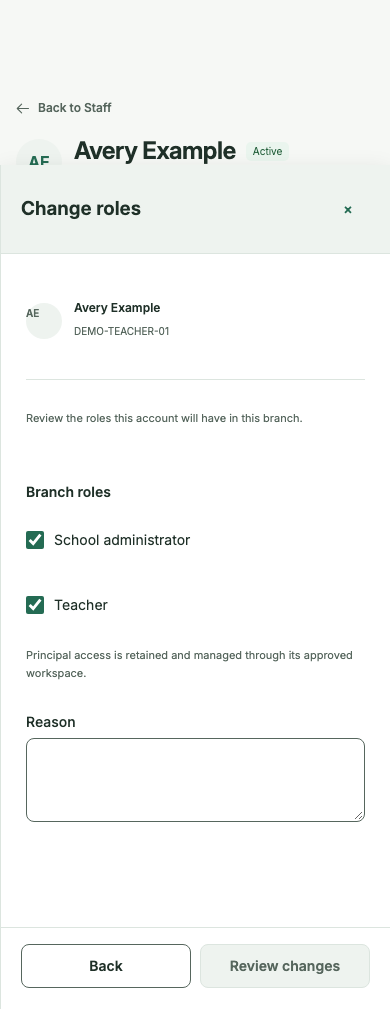
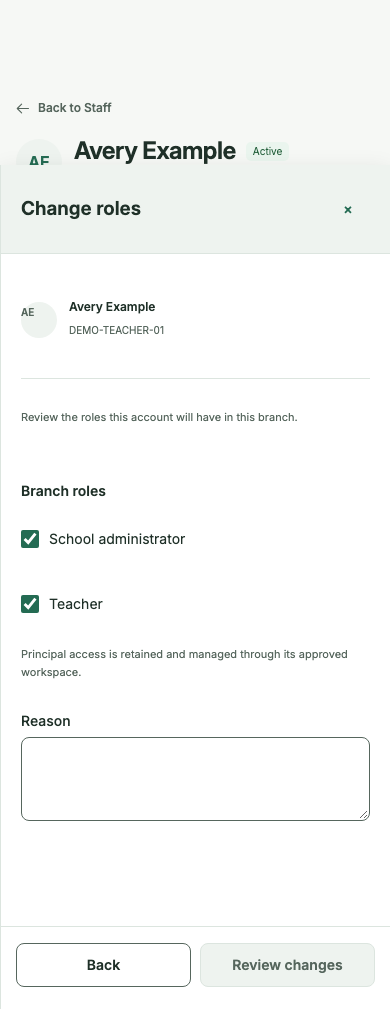
Align Staff access drawer composition

diff --git a/app/globals.css b/app/globals.css
@@ -1704,7 +1704,7 @@ a:focus-visible,button:focus-visible,input:focus-visible,select:focus-visible,te
 .staff-filter-drawer{display:block;min-height:0;padding:0}.staff-drawer-body{padding:26px 28px}.staff-drawer-body fieldset{display:grid;gap:0;margin:0 0 24px;padding:0;border:0}.staff-drawer-body legend{margin:0 0 12px;padding:0 2px;font-size:12px;font-weight:650;line-height:18px}.staff-drawer-body .check-control{min-height:38px;padding:8px 0;font-size:12px;line-height:18px}.staff-drawer-body .radio-group .check-control{min-height:35px}.staff-drawer-body .check-control input{width:16px;height:16px;margin:3px 3px 3px 4px}.staff-drawer-body .radio-group .check-control input{margin:3px 3px 0 5px}.staff-drawer-rule{height:1px;margin:22px 0;background:var(--vs-border)}.staff-filter-drawer>.drawer-actions{justify-content:flex-end;margin:0;padding:18px 28px;border-top:1px solid var(--vs-border);background:var(--vs-surface-subtle)}.staff-filter-drawer>.drawer-actions .btn{width:auto;min-height:36px;padding:7px 13px;border-radius:6px;font-size:13px;font-weight:550;line-height:19.5px}.staff-filter-drawer>.drawer-actions .btn-secondary{border-color:var(--vs-border)}
 .staff-reference-drawer.dialog.drawer{width:min(470px,100vw);max-width:none;border-radius:0}.staff-reference-drawer .drawer-header{min-height:94px;padding:27px 28px 22px;background:var(--vs-surface-subtle)}.staff-reference-drawer .drawer-header h2{font-size:19px;font-weight:650;line-height:28px}.staff-reference-drawer .drawer-close{width:44px;height:44px;min-height:44px;padding:10px;border:0;border-radius:0;background:transparent;flex:0 0 44px}
 .staff-access-drawer .drawer-body,.staff-portal-drawer .drawer-body{overflow-y:auto;padding:25px}.staff-access-drawer form{display:grid;gap:18px}.staff-access-drawer .form-actions{margin:auto -25px -25px;padding:18px 24px;background:var(--vs-surface-subtle);border-top:1px solid var(--vs-border)}
-.staff-profile-access-summary{display:block;padding:0}.staff-profile-access-summary>.staff-access-person{padding-bottom:20px;border-bottom:1px solid var(--vs-border)}.staff-profile-access-summary>.small.muted{margin:20px 0 4px}.staff-profile-access-summary>p:not(.small){margin:0 0 18px}.staff-access-roles{margin:0 0 18px}.staff-access-roles p{margin:4px 0 0}.staff-profile-access-summary>.staff-invitation-management{margin:0 -25px;border-top:1px solid var(--vs-border)}.staff-profile-access-summary>.staff-invitation-management>.alert{margin:18px 25px}.staff-profile-access-summary>.staff-invitation-management>.staff-invitation-state{padding:18px 25px;border-bottom:1px solid var(--vs-border)}.staff-profile-access-summary>.staff-access-actions{margin-inline:-25px;padding-inline:25px}.staff-profile-access-actions>button{display:grid;grid-template-columns:18px minmax(0,1fr) auto}.staff-profile-access-actions>button>svg{width:16px;height:16px;fill:none;stroke:currentColor;stroke-width:1.6;stroke-linecap:round;stroke-linejoin:round}.staff-profile-access-summary>.drawer-actions{margin:0 -25px -25px}.staff-profile-access-form{display:grid;gap:18px;min-height:calc(100dvh - 144px)}.staff-profile-access-form fieldset{display:grid;gap:10px;margin:0;padding:0;border:0}.staff-profile-access-form legend{margin-bottom:10px;font-weight:600}.staff-profile-access-form>.drawer-actions{margin:auto -25px -25px}.staff-access-consequence{margin:0;color:var(--vs-text-muted);font-size:12px;line-height:19px}.staff-profile-access-review{display:flex;min-height:calc(100dvh - 144px);flex-direction:column}.staff-access-review-facts{display:grid;gap:18px;margin:0;padding:20px 0}.staff-access-review-facts dt{margin-bottom:4px;color:var(--vs-text-muted);font-size:11px}.staff-access-review-facts dd{margin:0;font-size:13px;font-weight:600}.staff-profile-access-review>.drawer-actions{margin:auto -25px -25px}
+.staff-profile-access-summary{display:block;padding:0}.staff-profile-access-summary>.staff-access-person{padding-bottom:20px;border-bottom:1px solid var(--vs-border)}.staff-profile-access-summary>.small.muted{margin:20px 0 4px}.staff-profile-access-summary>p:not(.small){margin:0 0 18px}.staff-access-roles{margin:0 0 18px}.staff-access-roles p{margin:4px 0 0}.staff-profile-access-summary>.staff-invitation-management{margin:0}.staff-profile-access-summary>.staff-invitation-management>.alert{margin:18px 0}.staff-profile-invitation-state,.staff-profile-access-section{margin-top:24px;padding-top:22px;border-top:1px solid var(--vs-border)}.staff-profile-invitation-heading{display:flex;align-items:center;justify-content:space-between;gap:12px}.staff-profile-invitation-heading h3,.staff-profile-access-section h3{margin:0;font-size:13px}.staff-profile-invitation-state>p{margin:10px 0 0}.staff-profile-invitation-state>.btn{margin-top:16px}.staff-profile-access-actions{margin-top:10px;border-top:0}.staff-access-actions.staff-profile-access-actions>button{display:grid;grid-template-columns:18px minmax(0,1fr) auto;min-height:44px;padding:10px 0}.staff-profile-access-actions>button>svg{width:16px;height:16px;fill:none;stroke:currentColor;stroke-width:1.6;stroke-linecap:round;stroke-linejoin:round}.staff-access-actions.staff-profile-access-actions>button strong{font-weight:400}.staff-access-actions.staff-profile-access-actions .dangerlink{color:var(--vs-danger)}.staff-profile-access-footer{justify-content:flex-end;margin:24px -25px -25px;padding:18px 28px max(18px,env(safe-area-inset-bottom));background:var(--vs-surface-subtle)}.staff-profile-access-footer .btn{width:auto;min-height:36px;padding:7px 13px;flex:0 0 auto}.staff-profile-access-form{display:grid;gap:18px;min-height:calc(100dvh - 144px)}.staff-profile-access-form fieldset{display:grid;gap:10px;margin:0;padding:0;border:0}.staff-profile-access-form legend{margin-bottom:10px;font-weight:600}.staff-profile-access-form>.drawer-actions{margin:auto -25px -25px}.staff-access-consequence{margin:0;color:var(--vs-text-muted);font-size:12px;line-height:19px}.staff-profile-access-review{display:flex;min-height:calc(100dvh - 144px);flex-direction:column}.staff-access-review-facts{display:grid;gap:18px;margin:0;padding:20px 0}.staff-access-review-facts dt{margin-bottom:4px;color:var(--vs-text-muted);font-size:11px}.staff-access-review-facts dd{margin:0;font-size:13px;font-weight:600}.staff-profile-access-review>.drawer-actions{margin:auto -25px -25px}
 .quiet-status{display:inline-flex;align-items:center;gap:6px;color:var(--vs-text-muted);font-size:11px;line-height:17px}.quiet-status::before{width:5px;height:5px;flex:0 0 5px;border-radius:50%;background:#85938b;content:""}.quiet-status.good{color:#28634c}.quiet-status.good::before{background:#478065}.quiet-status.warn{color:#8a6126}.quiet-status.warn::before{background:#af843f}.quiet-status.none::before{background:#b6c0b8}
 .staff-profile-page{width:min(100%,884px);gap:0;font-size:14px;line-height:21px}
 .staff-profile-back{display:inline-flex;align-items:center;gap:7px;min-height:30px;margin:0 0 12px;color:var(--vs-text-muted);font-size:12px;font-weight:550;line-height:18px;text-decoration:none}.staff-profile-back svg{width:15px;height:15px;fill:none;stroke:currentColor;stroke-width:1.7;stroke-linecap:round;stroke-linejoin:round}
@@ -1741,6 +1741,7 @@ a:focus-visible,button:focus-visible,input:focus-visible,select:focus-visible,te
 @media(min-width:1001px){.staff-profile-page{margin-left:77px;margin-right:auto}}
 @media(max-width:700px){
  .staff-reference-drawer.dialog.drawer{inset:0;width:100vw;max-width:none}.staff-reference-drawer .drawer-header{min-height:89px;padding:22px 20px}
+ .staff-portal-drawer .drawer-body{padding:24px 20px}.staff-profile-access-footer{margin:24px -20px -20px;padding:16px 20px max(16px,env(safe-area-inset-bottom))}.staff-profile-access-footer .btn{width:auto;min-height:44px;padding:11px 13px;flex:0 0 auto}
  .staff-profiles-page>.page-heading,.staff-access-page>.page-heading{height:32px;min-height:32px;margin-bottom:10px}
  .staff-profiles-page>.page-heading h1,.staff-access-page>.page-heading h1{font-size:25px;line-height:32px}
  .staff-profiles-page>.admin-local-navigation-row,.staff-access-page>.admin-local-navigation-row{align-items:stretch;flex-direction:column;min-height:111px;gap:10px}

diff --git a/components/staff-invitation-management.tsx b/components/staff-invitation-management.tsx
@@ -14,17 +14,19 @@ async function payload<T>(response:Response):Promise<T>{const value=await respon
 export function StaffInvitationManagement({employeeId,initial,compact=false}:{employeeId:string;initial:StaffProfileAccess;compact?:boolean}){
  const [access,setAccess]=useState(initial),[open,setOpen]=useState(false),[reason,setReason]=useState(''),[busy,setBusy]=useState(false),[attempt,setAttempt]=useState<Attempt|null>(null),[unknown,setUnknown]=useState(false),[savedRefresh,setSavedRefresh]=useState(false),[recoveryLock,setRecoveryLock]=useState(false),[confirmed,setConfirmed]=useState<Result|null>(null),[message,setMessage]=useState(''),[error,setError]=useState('');
  const invitation=access.invitation,canResend=!recoveryLock&&!unknown&&(invitation?.state==='FAILED'||invitation?.state==='EXPIRED');
+ const displayedState=confirmed?label[confirmed.deliveryStatus]:invitation?label[invitation.state]:'No invitation';
+ const historical=invitation?.state==='CONSUMED'||invitation?.state==='REVOKED';
  async function refresh(){setBusy(true);setError('');try{setAccess(await payload<StaffProfileAccess>(await fetch(`/api/v1/employees/${employeeId}/invitation`,{cache:'no-store'})));setSavedRefresh(false);setRecoveryLock(false);setConfirmed(null);setMessage('Invitation status refreshed.');}catch(cause){setError(cause instanceof Error?cause.message:'Current invitation status is unavailable.');}finally{setBusy(false);}}
  async function submit(existing?:Attempt){const next=existing??{key:crypto.randomUUID(),invitationId:invitation!.id,reason:reason.trim()};setAttempt(next);setBusy(true);setUnknown(false);setSavedRefresh(false);setMessage('');setError('');try{
    const result=await payload<Result>(await fetch(`/api/v1/employees/${employeeId}/invitation`,{method:'POST',headers:{'content-type':'application/json','idempotency-key':next.key},body:JSON.stringify({...next,key:next.key})}));setAttempt(null);setUnknown(false);setRecoveryLock(true);setConfirmed(result);setMessage(result.deliveryStatus==='SENT'?'Replacement invitation sent.':result.deliveryStatus==='PENDING_DELIVERY'?'Replacement invitation is preparing for delivery.':'Replacement saved; delivery failed.');
    try{setAccess(await payload<StaffProfileAccess>(await fetch(`/api/v1/employees/${employeeId}/invitation`,{cache:'no-store'})));setRecoveryLock(false);setConfirmed(null);setOpen(false);setReason('');}catch{setSavedRefresh(true);setOpen(false);}
   }catch(cause){setUnknown(true);setError(cause instanceof Error?cause.message:'The invitation outcome is unknown.');}finally{setBusy(false);}}
  function close(){if(unknown){setError('Check the pending invitation before closing.');return;}setOpen(false);setError('');}
- return <div className="staff-invitation-management">
+ return <div className={`staff-invitation-management${compact?' staff-profile-invitation':''}`}>
   {message&&<Alert tone="success" title="Invitation updated" onDismiss={savedRefresh?undefined:()=>setMessage('')}>{message}</Alert>}
   {savedRefresh&&<Alert tone="warning" title="Invitation saved; current status unavailable">The replacement was confirmed. Refreshing checks the current state and will not send another invitation.<span className="alert-actions"><Button size="small" variant="secondary" loading={busy} onClick={()=>void refresh()}>Refresh saved view</Button></span></Alert>}
   {!compact&&<div className="staff-access-summary"><strong>{access.state==='NO_ACCOUNT'?'No account':access.email??'Linked account'}</strong><p className="muted small">Contact email and sign-in access are managed separately.</p>{access.roles.length>0&&<p className="small">{access.roles.map(role=>roleLabel[role]).join(' · ')}</p>}</div>}
-  {invitation&&<div className="staff-invitation-state"><div><span className="small muted">Invitation</span><p><Badge tone={tone(invitation.state)}>{confirmed?label[confirmed.deliveryStatus]:label[invitation.state]}</Badge></p><p className="small muted">Expires {new Date(invitation.expiresAt).toLocaleString()}</p>{invitation.deliveryFailureReason&&<p className="small">{invitation.deliveryFailureReason}</p>}</div>{canResend&&<Button size="small" variant="secondary" onClick={()=>{setReason('');setError('');setAttempt(null);setOpen(true);}}>Review resend</Button>}</div>}
+  {compact?<section className="staff-profile-invitation-state"><div className="staff-profile-invitation-heading"><h3>Invitation</h3>{invitation&&<span className={`quiet-status ${invitation.state==='SENT'||invitation.state==='CONSUMED'?'good':invitation.state==='FAILED'||invitation.state==='EXPIRED'?'warn':'none'}`}>{displayedState}</span>}</div><p className="small muted">{invitation?(historical?'Historical invitation record.':`Expires ${new Date(invitation.expiresAt).toLocaleString()}`):'No invitation record.'}</p>{invitation?.deliveryFailureReason&&<p className="small">{invitation.deliveryFailureReason}</p>}{canResend&&<Button size="small" variant="secondary" onClick={()=>{setReason('');setError('');setAttempt(null);setOpen(true);}}>Review resend</Button>}</section>:invitation&&<div className="staff-invitation-state"><div><span className="small muted">Invitation</span><p><Badge tone={tone(invitation.state)}>{displayedState}</Badge></p><p className="small muted">Expires {new Date(invitation.expiresAt).toLocaleString()}</p>{invitation.deliveryFailureReason&&<p className="small">{invitation.deliveryFailureReason}</p>}</div>{canResend&&<Button size="small" variant="secondary" onClick={()=>{setReason('');setError('');setAttempt(null);setOpen(true);}}>Review resend</Button>}</div>}
   <Dialog title="Resend staff invitation" description="Review the current failed or expired invitation before creating a replacement." open={open} onClose={close}>
    {error&&<Alert tone="danger" title={unknown?'Outcome not confirmed':'Invitation not resent'}>{error}{unknown&&attempt&&<span className="alert-actions"><Button size="small" variant="secondary" loading={busy} onClick={()=>void submit(attempt)}>Retry unchanged resend</Button></span>}</Alert>}
    <dl className="workspace-choice-review"><div><dt>Staff account</dt><dd>{access.email}</dd></div><div><dt>Current state</dt><dd>{invitation?label[invitation.state]:'No invitation'}</dd></div></dl>

diff --git a/components/staff-portal-management.tsx b/components/staff-portal-management.tsx
@@ -33,9 +33,9 @@ export function StaffPortalManagement({employeeId,employeeName,staffNumber,schoo
      <dl className="staff-access-facts"><div><dt>Account</dt><dd><span className={`quiet-status ${current.state==='ACTIVE'?'good':current.state==='PENDING'?'warn':'none'}`}>{current.state==='PENDING'?'Pending activation':current.state==='REVOKED'?'Revoked':'Active'}</span></dd></div><div><dt>Branch access</dt><dd><span className={`quiet-status ${current.state==='ACTIVE'?'good':current.state==='PENDING'||current.state==='SUSPENDED'?'warn':'none'}`}>{branchState}</span></dd></div></dl>
      {current.roles.length>0&&<div className="staff-access-roles"><span className="small muted">Branch roles</span><p>{current.roles.map(role=>roleLabel[role]).join(' · ')}</p></div>}
      <StaffInvitationManagement employeeId={employeeId} initial={current} compact/>
-     {current.membershipId&&current.state!=='REVOKED'&&<div className="staff-access-actions staff-profile-access-actions"><button disabled={disabled} onClick={()=>begin('SET_ROLES')}><svg aria-hidden="true" viewBox="0 0 24 24"><path d="m4 16 10.5-10.5 4 4L8 20H4v-4Z"/></svg><span><strong>Change roles</strong><small>Choose the roles used in this branch</small></span><span aria-hidden="true">→</span></button>{current.state==='SUSPENDED'?<button disabled={disabled} onClick={()=>begin('REINSTATE')}><svg aria-hidden="true" viewBox="0 0 24 24"><circle cx="12" cy="12" r="8"/><path d="M12 8v4l3 2"/></svg><span><strong>Reinstate access</strong><small>Restore this branch membership</small></span><span aria-hidden="true">→</span></button>:<button disabled={disabled} onClick={()=>begin('SUSPEND')}><svg aria-hidden="true" viewBox="0 0 24 24"><circle cx="12" cy="12" r="8"/><path d="M12 8v4l3 2"/></svg><span><strong>Suspend access</strong><small>Temporarily stop access to this branch</small></span><span aria-hidden="true">→</span></button>}<button className="dangerlink" disabled={disabled} onClick={()=>begin('REVOKE')}><svg aria-hidden="true" viewBox="0 0 24 24"><path d="m7 7 10 10M17 7 7 17"/></svg><span><strong>Revoke access</strong><small>Remove this branch membership</small></span><span aria-hidden="true">→</span></button></div>}
+     {current.membershipId&&current.state!=='REVOKED'&&<section className="staff-profile-access-section"><h3>Manage branch access</h3><div className="staff-access-actions staff-profile-access-actions"><button disabled={disabled} onClick={()=>begin('SET_ROLES')}><svg aria-hidden="true" viewBox="0 0 24 24"><path d="m4 16 10.5-10.5 4 4L8 20H4v-4Z"/></svg><span><strong>Change roles</strong></span><span aria-hidden="true">→</span></button>{current.state==='SUSPENDED'?<button disabled={disabled} onClick={()=>begin('REINSTATE')}><svg aria-hidden="true" viewBox="0 0 24 24"><circle cx="12" cy="12" r="8"/><path d="M12 8v4l3 2"/></svg><span><strong>Reinstate access</strong></span><span aria-hidden="true">→</span></button>:<button disabled={disabled} onClick={()=>begin('SUSPEND')}><svg aria-hidden="true" viewBox="0 0 24 24"><circle cx="12" cy="12" r="8"/><path d="M12 8v4l3 2"/></svg><span><strong>Suspend access</strong></span><span aria-hidden="true">→</span></button>}<button className="dangerlink" disabled={disabled} onClick={()=>begin('REVOKE')}><svg aria-hidden="true" viewBox="0 0 24 24"><path d="m7 7 10 10M17 7 7 17"/></svg><span><strong>Revoke access</strong></span><span aria-hidden="true">→</span></button></div></section>}
     </>}
-    <div className="drawer-actions"><Button variant="secondary" onClick={close}>Close</Button></div>
+    <div className="drawer-actions staff-profile-access-footer"><Button variant="secondary" onClick={close}>Close</Button></div>
    </div>:step==='change'?<form className="staff-profile-access-form" onSubmit={event=>{event.preventDefault();if(action==='SET_ROLES'){setStep('review');return;}void save();}}>
     {command.notice}
     <div className="staff-drawer-person"><Avatar name={employeeName}/><div><strong>{employeeName}</strong><span>{staffNumber}</span></div></div>

diff --git a/docs/evidence/staff-pinpoint-followup-2026-10-23/README.md b/docs/evidence/staff-pinpoint-followup-2026-10-23/README.md
@@ -4,8 +4,8 @@ Human visual acceptance remains **PENDING**.
 
 ## Candidate and reference
 
-- Implementation checkpoints: `d008c582b27264991742b206ab36cb1e944e3185` and `5e89fd59b4bfe1a7c61e300a4345be6d1711abe8`
-- Production build ID: `wcBTqLXJ3Sk4fQixRsRl9`
+- Implementation checkpoints: `d008c582b27264991742b206ab36cb1e944e3185`, `5e89fd59b4bfe1a7c61e300a4345be6d1711abe8` and the current focused access-alignment correction
+- Production build ID: `jKk3n_k2IoDq_QjnHWHf6`
 - Demo: `http://127.0.0.1:3400`
 - Required start command: `pnpm demo:start`. Plain `pnpm start` omits the synthetic demo modes and released-module list, so authorized Academics/navigation projections can appear unavailable even though the build is healthy.
 - Application routes: `/admin/teachers` and `/admin/teachers/[employeeId]`
@@ -24,6 +24,8 @@ Chromium rendered both candidates at 100% browser zoom and device-pixel ratio 1.
 - Active Staff access now opens the approved Profile-local composition rather than redirecting to the general access directory. It shows the authoritative sign-in identity, account/branch state, roles and invitation state, then exposes the existing guarded Change roles, Suspend/Reinstate and Revoke operations.
 - Role changes follow the reference's staged interaction: edit roles and reason, review the current/proposed roles, then save. The form reuses the Access owner's existing expected-version, exact-key recovery and authorization path; the visual review did not submit a mutation.
 - Action icons are the reference-sized 16px outline icons, and access actions use compact divided rows at desktop and mobile widths.
+- The `View access` summary now uses the reference's aligned Invitation and Manage branch access sections. Action labels start in one consistent column; status uses the compact dot treatment.
+- The Close footer uses a content-sized button with a 28px desktop and 20px mobile end inset. It no longer inherits the full-width mobile action rule or sit against the drawer edge.
 - Real production invitation and access states remain authoritative. The reference's fictional account, role and invitation values were not copied.
 
 [computed-measurements.json](computed-measurements.json) records final border, size, font and overflow measurements. [invitation-state.json](invitation-state.json) records the pending-invitation heading comparison. `reference-*` and `application-*` captures pair Filter, Sort, Profile, assignments, access and invitation states at both viewports.
@@ -35,7 +37,7 @@ The frozen Profile shows Personal and Employment Edit actions. They remain absen
 ## Verification
 
 - `pnpm exec eslint components/access-management.tsx components/staff-invitation-management.tsx components/staff-portal-management.tsx 'app/admin/teachers/[id]/page.tsx'` — passed after removing one unused import.
-- `env NODE_OPTIONS=--max-old-space-size=4096 pnpm build` — passed from implementation commit `5e89fd59b4bfe1a7c61e300a4345be6d1711abe8`; build `wcBTqLXJ3Sk4fQixRsRl9`.
+- `env NODE_OPTIONS=--max-old-space-size=4096 pnpm build` — passed after a clean generated-cache rebuild; build `jKk3n_k2IoDq_QjnHWHf6`.
 - Focused local Playwright comparison — passed at 1440×1000 and 390×844 for Filter, Sort, Profile, assignment, access summary, role-edit and role-review states, including Escape closure and no root overflow.
 - Focused pending-invitation comparison — passed; application and reference both render the `Staff access` drawer title at both viewports.
 - Direct screenshot inspection — completed for the paired captures. The remaining Edit-control difference is the explicit `PD-STF-02` contract boundary above.

diff --git a/docs/modules/people/CURRENT_STATE.md b/docs/modules/people/CURRENT_STATE.md
@@ -157,3 +157,5 @@ The bounded `/admin/teachers` Filter/Sort drawers and `/admin/teachers/[id]` Pro
 ## Staff Profile and Filter/Sort follow-up — 23 October 2026
 
 The Staff Filter and Sort triggers and drawer Cancel actions now compute to a 1px pale theme border, matching the frozen reference rather than the previously inherited dark secondary outline. The Profile's assignment drawer now contains the approved identity and compact assignment composition with no extra footer action, and pending invitation state uses the reference's `View invitation` trigger with `Staff access` drawer title. Active access is composed inside the Profile with authoritative identity/status facts and the existing guarded Change roles, Suspend/Reinstate and Revoke operations; role changes use the reference's edit → review → save stages while retaining the Access owner's expected-version, exact-key recovery and live authorization behavior. Final build `wcBTqLXJ3Sk4fQixRsRl9` from implementation commit `5e89fd59b4bfe1a7c61e300a4345be6d1711abe8` was directly inspected at 1440×1000 and 390×844, including access summary, role-edit and role-review states. Production data and owner behavior remain authoritative. Personal and Employment Edit controls remain excluded behind unapproved PD-STF-02; no fake action was added. Evidence: [Staff pinpoint follow-up](../../evidence/staff-pinpoint-followup-2026-10-23/README.md). Human visual acceptance remains PENDING.
+
+The subsequent `View access` alignment correction gives Invitation and Manage branch access their reference section structure, left-aligns action labels, and constrains the Close footer to the approved 28px desktop and 20px mobile end insets. A clean-cache production build `jKk3n_k2IoDq_QjnHWHf6` and the same focused 1440×1000/390×844 comparison passed. No owner command or permission changed; human visual acceptance remains PENDING.
